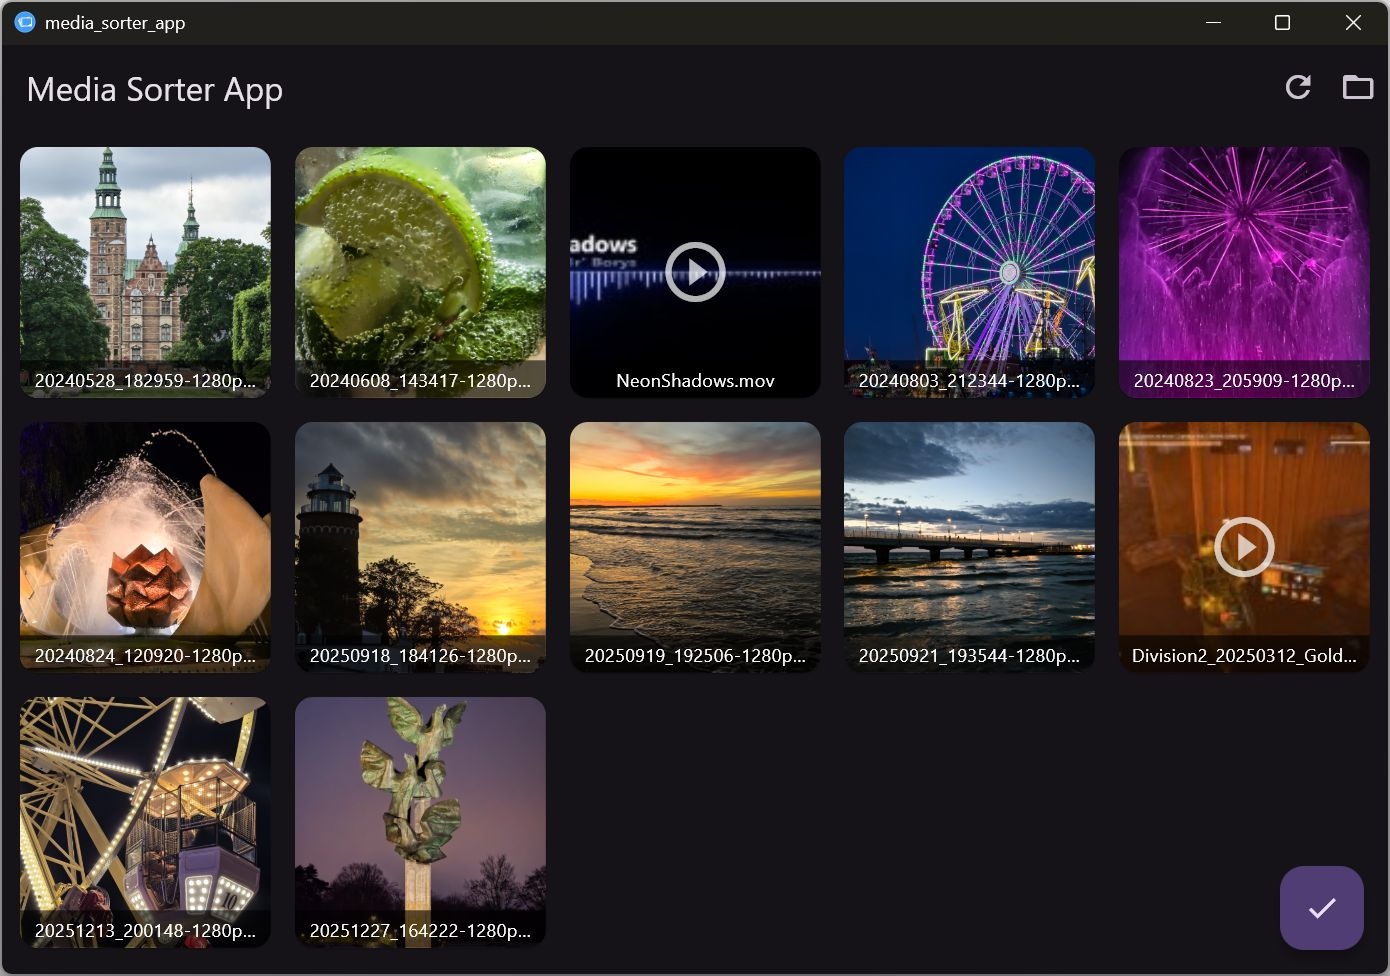
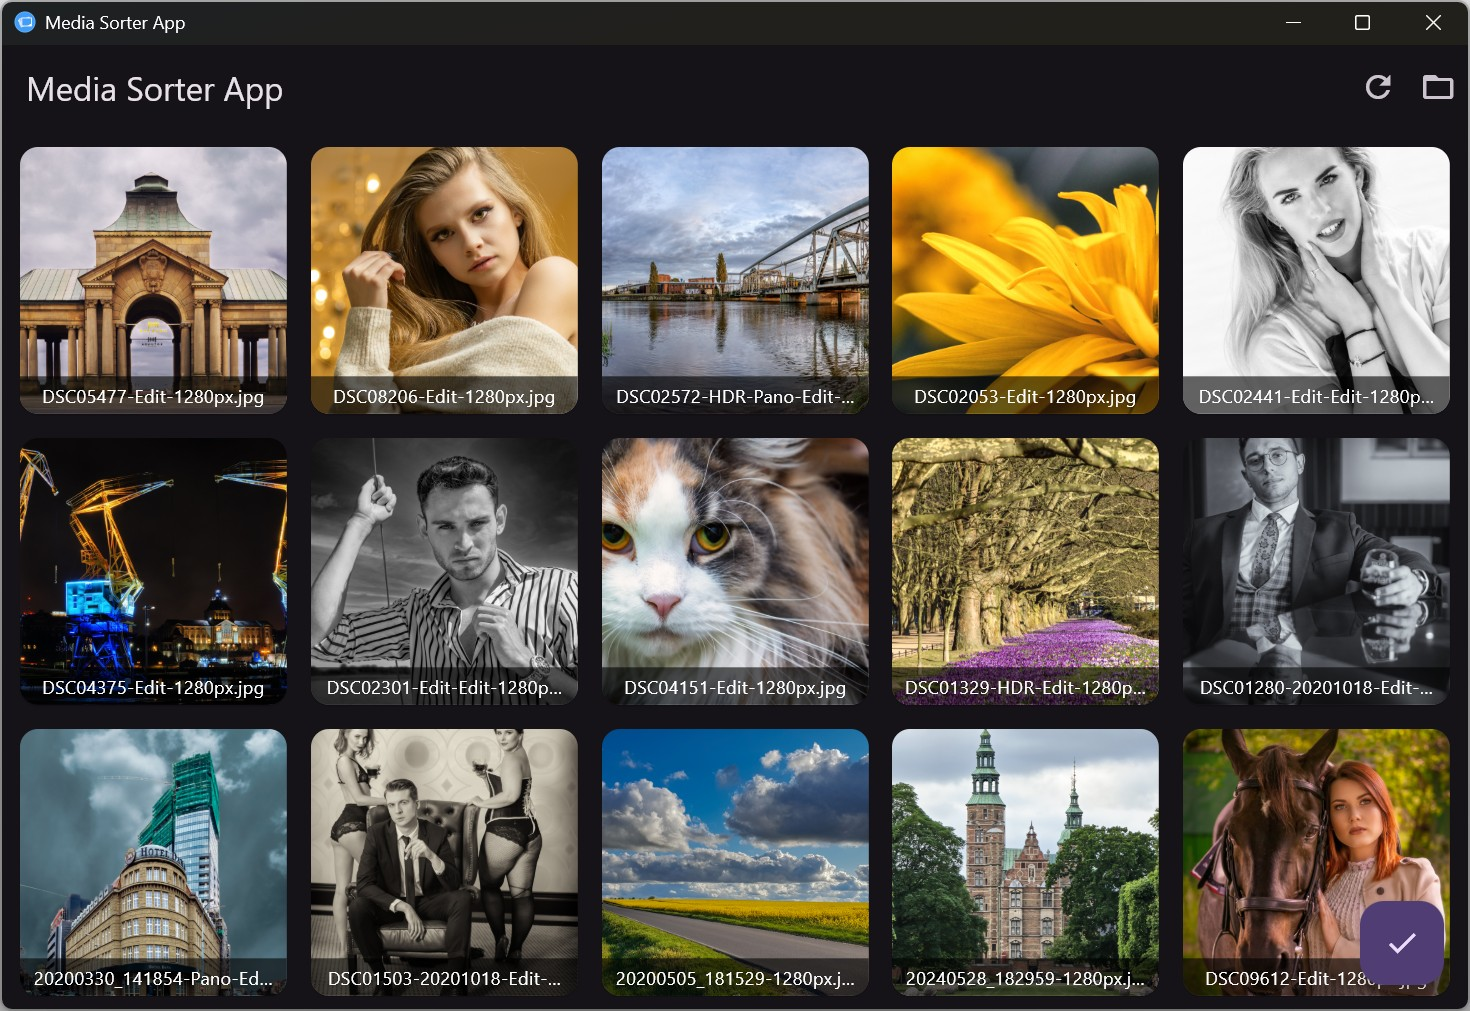
Preparing for a first release

diff --git a/windows/runner/main.cpp b/windows/runner/main.cpp
@@ -27,7 +27,7 @@ int APIENTRY wWinMain(_In_ HINSTANCE instance, _In_opt_ HINSTANCE prev,
   FlutterWindow window(project);
   Win32Window::Point origin(10, 10);
   Win32Window::Size size(1280, 720);
-  if (!window.Create(L"media_sorter_app", origin, size)) {
+  if (!window.Create(L"Media Sorter App", origin, size)) {
     return EXIT_FAILURE;
   }
   window.SetQuitOnClose(true);

diff --git a/README.md b/README.md
@@ -6,7 +6,7 @@ This application was born out of my frustration trying to make an ordered list o
 With this app, you can open a folder and see all of the images and videos in this folder - and then drag and drop them, changing their order. Upon saving, it is doing two things: 
 
 - saves a json file with the order of the files,
-- copies to a system clipboard a an ordered list of filenames, ready to be pasted somewhere (for example, to a gallery code).
+- copies to a system clipboard an ordered list of filenames, ready to be pasted somewhere (for example, to a gallery code).
 
 ![screenshot](./screenshot.jpg)
 
@@ -18,7 +18,11 @@ flutter run -d windows
 ```
 
 To build a release version for windows, run
-
 ```bash
 flutter build windows
+```
+
+To build a MSIX package for Windows, run
+```bash
+dart run msix:create
 ```
